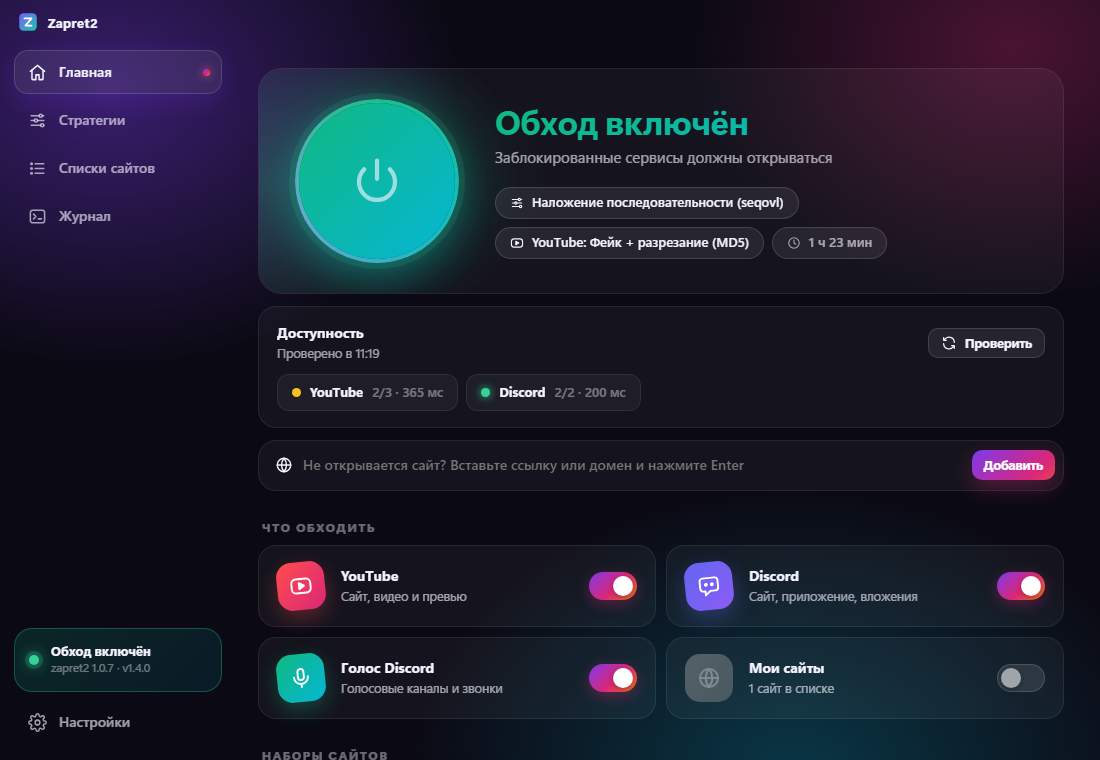
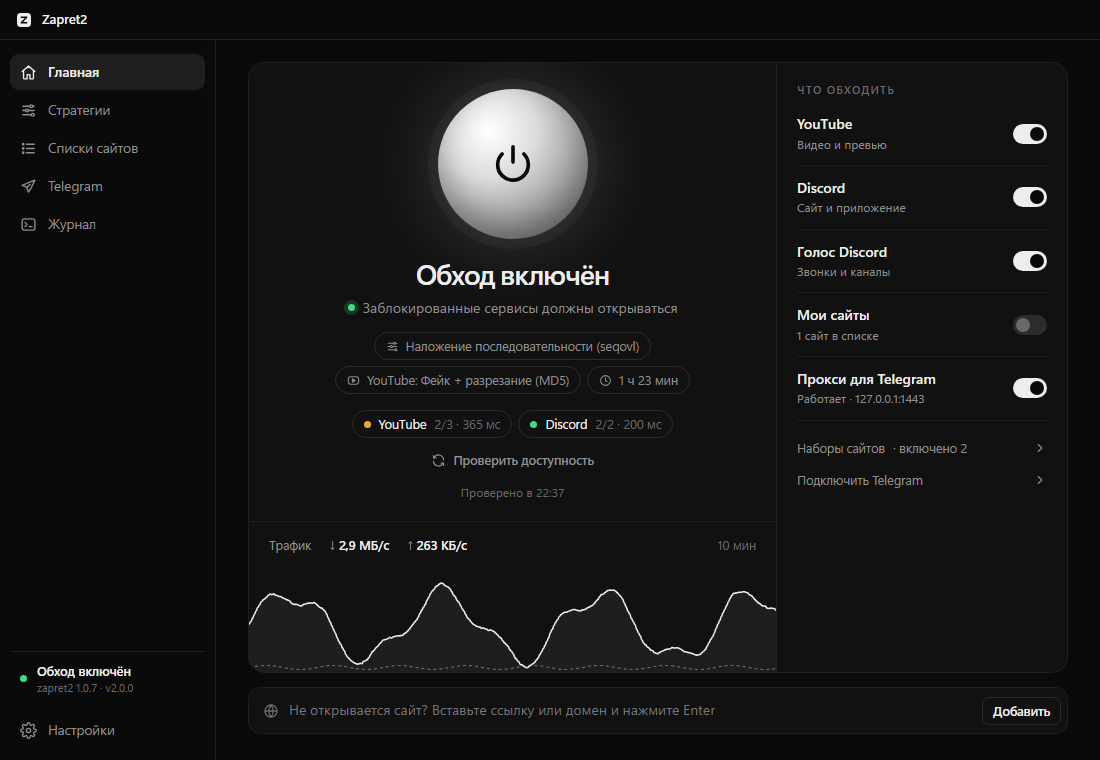
Подготовка к продвижению: README 2.0, скриншоты, шаблон «Стратегия для провайдера»
- README: возможности 1.5–2.0 (мастер, прокси для Telegram, хостинги и CDN,
  подсказка по провайдеру, график трафика), новые скриншоты, установка через
  мастер, частые вопросы про Telegram, бесконечную загрузку и отличия от GoodbyeDPI.
- README.en.md: описание на английском.
- Скриншоты дизайна 2.0 (главная в двух темах, мастер, подбор, Telegram, наборы, трей).
- Шаблон issue isp-strategy.yml; кнопка «Поделиться результатом» теперь открывает
  его с заполненными полями (обычные issue без шаблона в репозитории отключены).
- Демо-режим: версия 2.0.0, набор хостингов, без выдуманной подсказки провайдера;
  убрана цветная иконка YouTube на странице стратегий.

diff --git a/gui/ui/common.js b/gui/ui/common.js
@@ -194,7 +194,7 @@ function mockInvoke(cmd, args) {
   switch (cmd) {
     case "get_state": return Promise.resolve({
       status: { running: m.running, since: m.since, last_error: null, command_line: "", pid: null },
-      settings: m.settings, engine_version: "1.0.7", app_version: "1.4.0", conflicts: [], testing: false,
+      settings: m.settings, engine_version: "1.0.7", app_version: "2.0.0", conflicts: [], testing: false,
       data_dir: "C:\\Users\\user\\AppData\\Local\\Zapret2GUI", user_domains: 1, auto_domains: 0, autostart: m.settings.autostart,
       content_version: 2,
       app_update: new URLSearchParams(location.search).get("upd") ? { configured: true, available: true, current: "1.1.0", latest: "1.2.0", notes: "Меньше нагрузка на видеокарту" } : null,
@@ -212,7 +212,7 @@ function mockInvoke(cmd, args) {
       t.tx += (0.2 + 0.1 * Math.sin(t.n / 5)) * 1048576 * 2;
       return Promise.resolve({ rx: Math.round(t.rx), tx: Math.round(t.tx) });
     }
-    case "get_isp": return wait(300).then(() => ({ isp: { asn: 12389, name: "PJSC Rostelecom" }, hint: { asn: [12389], name: "Ростелеком", strategy: "seqovl", youtube_strategy: "" } }));
+    case "get_isp": return wait(300).then(() => ({ isp: { asn: 12389, name: "PJSC Rostelecom" }, hint: null }));
     case "save_settings": m.settings = args.new; return Promise.resolve(m.settings);
     case "get_command_line": return Promise.resolve("engine\\bin\\winws2.exe --wf-tcp-out=80,443 ...");
     case "read_list": return Promise.resolve(m.lists[args.name] || "");
@@ -247,6 +247,7 @@ function mockInvoke(cmd, args) {
       { id: "torrents", name: "Торрент-трекеры", icon: "download", description: "RuTracker, Rutor, NNM-Club, Kinozal и другие", domains: 11 },
       { id: "roblox", name: "Roblox", icon: "gamepad", description: "Сайт и игровые серверы Roblox", domains: 5 },
       { id: "signal", name: "Signal", icon: "chat", description: "Мессенджер Signal", domains: 7 },
+      { id: "hosting", name: "Зарубежные хостинги и CDN", icon: "server", kind: "ipset", description: "Сайты, игры и сервисы на Cloudflare, Hetzner, DigitalOcean, OVH, AWS и других хостингах", domains: 16346 },
       { id: "linkedin", name: "LinkedIn", icon: "briefcase", description: "Сайт и картинки LinkedIn", domains: 3 },
     ]);
     case "quick_check": return wait(900).then(() => ({ id: "now", checks: [

diff --git a/gui/ui/app.js b/gui/ui/app.js
@@ -285,7 +285,7 @@ function renderPacks() {
       <div class="pack-top"><span class="pack-ico">${icon(p.icon || "globe")}</span><span class="pack-check">${icon("tick")}</span></div>
       <div class="pack-name">${esc(p.name)}</div>
       <div class="pack-desc">${esc(p.description)}</div>
-      <div class="pack-count">${p.kind === "ipset" ? `${p.domains} ${plural(p.domains, "подсеть", "подсети", "подсетей")}` : `${p.domains} ${plural(p.domains, "домен", "домена", "доменов")}`}</div>
+      <div class="pack-count">${p.kind === "ipset" ? `${p.domains.toLocaleString("ru-RU")} ${plural(p.domains, "подсеть", "подсети", "подсетей")}` : `${p.domains} ${plural(p.domains, "домен", "домена", "доменов")}`}</div>
     </button>`).join("");
   $$(".pack", box).forEach((b) => b.addEventListener("click", () => {
     const set = new Set(state.settings.packs || []);
@@ -983,7 +983,7 @@ onVisible(() => { if (!busy) refresh(); });
     render();
     if (demo.get("page")) goto(demo.get("page"));
     if (demo.get("wizard")) openWizard();
-    for (let i = 0; i < 180; i++) {
+    for (let i = 0; i < 300; i++) {
       trafRx.push((2.4 + 1.8 * Math.sin(i / 14) + 0.6 * Math.sin(i / 5.3) + Math.random() * 0.3) * 1048576);
       trafTx.push((0.25 + 0.12 * Math.sin(i / 6)) * 1048576);
     }

diff --git a/gui/ui/index.html b/gui/ui/index.html
@@ -172,7 +172,7 @@
           </div>
 
           <div class="setting" style="margin-bottom:16px">
-            <span data-icon="play" style="color:#ff4e45"></span>
+            <span data-icon="play"></span>
             <div class="setting-text"><div class="setting-title">Стратегия для YouTube</div><div class="setting-desc">Серверам Google часто нужна другая стратегия, чем Discord и остальным сайтам</div></div>
             <div class="select-wrap" style="width:300px"><select id="ytStrategy"></select><span class="select-chev" data-icon="chevron"></span></div>
           </div>

diff --git a/gui/src-tauri/src/isp.rs b/gui/src-tauri/src/isp.rs
@@ -83,19 +83,22 @@ pub async fn detect() -> Result<Isp, String> {
 }
 
 /// Ссылка на новый issue с результатом подбора: из них пополняется таблица рекомендаций.
+/// Открывает шаблон .github/ISSUE_TEMPLATE/isp-strategy.yml и заполняет его поля
+/// (обычные issue без шаблона в репозитории отключены).
 pub fn share_url(isp: &Isp, strategy: &str, youtube_strategy: &str, app_version: &str) -> String {
     let title = format!("Стратегия для AS{} {}", isp.asn, isp.name);
-    let body = format!(
-        "Провайдер: {} (AS{})\nОсновная стратегия: {strategy}\nСтратегия для YouTube: {}\nВерсия приложения: {app_version}\n\nГород и тип подключения (по желанию):\n",
-        isp.name,
-        isp.asn,
-        if youtube_strategy.is_empty() { "как основная" } else { youtube_strategy }
-    );
-    format!(
-        "https://github.com/raiyaxkrash/zapret2-rust/issues/new?labels=isp-strategy&title={}&body={}",
-        encode(&title),
-        encode(&body)
-    )
+    let yt = if youtube_strategy.is_empty() { "как основная" } else { youtube_strategy };
+    let fields = [
+        ("template", "isp-strategy.yml".to_string()),
+        ("title", title),
+        ("provider", isp.name.clone()),
+        ("asn", format!("AS{}", isp.asn)),
+        ("strategy", strategy.to_string()),
+        ("youtube_strategy", yt.to_string()),
+        ("version", app_version.to_string()),
+    ];
+    let query: Vec<String> = fields.iter().map(|(k, v)| format!("{k}={}", encode(v))).collect();
+    format!("https://github.com/raiyaxkrash/zapret2-rust/issues/new?{}", query.join("&"))
 }
 
 fn encode(s: &str) -> String {
@@ -128,6 +131,6 @@ mod tests {
         assert!(find_hint(&hints, 1).is_none());
         let url = share_url(&Isp { asn: 12389, name: "PJSC Rostelecom".into() }, "seqovl", "", "1.6.0");
         assert!(url.starts_with("https://github.com/raiyaxkrash/zapret2-rust/issues/new?"));
-        assert!(url.contains("AS12389") && !url.contains(' '));
+        assert!(url.contains("template=isp-strategy.yml") && url.contains("asn=AS12389") && !url.contains(' '));
     }
 }

diff --git a/README.md b/README.md
@@ -2,14 +2,16 @@
 
 # Zapret2 GUI
 
-**Обход блокировок YouTube, Discord и других сайтов на Windows в один клик**
+**YouTube, Discord, Telegram и другие сайты на Windows — в один клик**
 
-Удобное приложение для [zapret2](https://github.com/bol-van/zapret2): включение одной кнопкой, автоподбор стратегии, готовые наборы сайтов, мини-окно в трее и автообновление.
+Простое приложение для [zapret2](https://github.com/bol-van/zapret2): одна кнопка, мастер настройки, автоподбор стратегии, встроенный прокси для Telegram Desktop, готовые наборы сайтов и автообновление.
 
-[![Последний релиз](https://img.shields.io/github/v/release/raiyaxkrash/zapret2-rust?label=%D0%B2%D0%B5%D1%80%D1%81%D0%B8%D1%8F&color=db2777)](https://github.com/raiyaxkrash/zapret2-rust/releases/latest)
+[English](README.en.md)
+
+[![Последний релиз](https://img.shields.io/github/v/release/raiyaxkrash/zapret2-rust?label=%D0%B2%D0%B5%D1%80%D1%81%D0%B8%D1%8F&color=0a0a0a)](https://github.com/raiyaxkrash/zapret2-rust/releases/latest)
 [![Сборка](https://img.shields.io/github/actions/workflow/status/raiyaxkrash/zapret2-rust/release.yml?label=%D1%81%D0%B1%D0%BE%D1%80%D0%BA%D0%B0)](https://github.com/raiyaxkrash/zapret2-rust/actions)
-![Windows 10/11](https://img.shields.io/badge/Windows-10%20%7C%2011%20%7C%20ARM64-7c3aed)
-![Rust + Tauri 2](https://img.shields.io/badge/Rust-Tauri%202-f97316)
+![Windows 10/11](https://img.shields.io/badge/Windows-10%20%7C%2011%20%7C%20ARM64-555555)
+![Rust + Tauri 2](https://img.shields.io/badge/Rust-Tauri%202-555555)
 
 ### [⬇ Скачать последнюю версию](https://github.com/raiyaxkrash/zapret2-rust/releases/latest)
 
@@ -21,26 +23,37 @@
 
 ## Возможности
 
-- **Одна кнопка.** Включить и выключить обход можно в главном окне или в мини-окне в трее.
+- **Одна кнопка.** Нажмите на сферу на главной или включите обход из мини-окна в трее.
+- **Мастер первого запуска.** Отметьте, что не открывается, и приложение само подберёт настройки примерно за минуту.
 - **Готовые профили:** YouTube (включая QUIC), Discord, голосовые каналы Discord и «Мои сайты» со своим списком доменов.
+- **Прокси для Telegram Desktop.** Встроенный локальный прокси: приложение Telegram подключается через WebSocket к серверам Telegram, настраивать обход не нужно. Подключение одной кнопкой.
 - **Наборы сайтов одной кнопкой:** Telegram, Instagram и Facebook, X (Twitter), торрент-трекеры, Roblox, Signal, LinkedIn.
+- **Зарубежные хостинги и CDN.** Для сайтов и игр на Cloudflare, Hetzner, DigitalOcean, OVH, AWS и других хостингах, которые обрываются или грузятся бесконечно.
 - **Автоподбор стратегии.** Приложение пробует каждую стратегию и проверяет, открываются ли сайты. Для YouTube стратегия подбирается отдельно.
+- **Подсказка для вашего провайдера.** Приложение определяет провайдера и, если для него известна рабочая стратегия, предлагает её. Результатом подбора можно поделиться, чтобы подсказка появилась у других.
 - **Проверка любого сайта:** вставьте ссылку, и приложение покажет, открывается ли сайт без обхода и с какими стратегиями.
-- **Видно, что работает:** на главной показано «YouTube ✓ 320 мс · Discord ✓ 180 мс», значок в трее цветной, когда обход включён.
-- **Свой сайт за секунду:** вставьте ссылку на заблокированный сайт, и он попадёт в обход.
-- **Надёжно:** если winws2 упадёт, приложение перезапустит его само, а при выходе из приложения он не остаётся висеть.
+- **Видно, что работает:** доступность сервисов («YouTube 320 мс, Discord 180 мс») и график трафика за 10 минут прямо на главной.
+- **Надёжно:** если winws2 упадёт, приложение перезапустит его само, а при выходе он не остаётся висеть.
 - **Автообновление** приложения, стратегий, списков сайтов и самого zapret2.
 - **Автозапуск с Windows** без запроса прав администратора при каждом входе.
-- **Тёмная и светлая тема**, интерфейс почти не нагружает видеокарту.
+- **Строгий чёрно-белый дизайн**, тёмная и светлая тема, интерфейс почти не нагружает компьютер.
 - **Windows 11 на ARM64** (Snapdragon): приложение само ставит нужный драйвер.
 
 <table>
   <tr>
+    <td><img src="gui/screenshots/wizard.png" alt="Мастер первого запуска"></td>
     <td><img src="gui/screenshots/strategies.png" alt="Подбор стратегии"></td>
+  </tr>
+  <tr>
+    <td align="center">Мастер первого запуска</td>
+    <td align="center">Автоподбор: YouTube и остальные сервисы отдельно</td>
+  </tr>
+  <tr>
+    <td><img src="gui/screenshots/telegram.png" alt="Прокси для Telegram"></td>
     <td><img src="gui/screenshots/packs.png" alt="Наборы сайтов"></td>
   </tr>
   <tr>
-    <td align="center">Автоподбор: YouTube и остальные сервисы отдельно</td>
+    <td align="center">Прокси для Telegram Desktop</td>
     <td align="center">Наборы сайтов одной кнопкой</td>
   </tr>
   <tr>
@@ -57,17 +70,19 @@
 
 1. Скачайте `Zapret2.GUI_X.Y.Z_x64-setup.exe` со [страницы релизов](https://github.com/raiyaxkrash/zapret2-rust/releases/latest).
 2. Запустите установщик и разрешите запуск от имени администратора: без этого не загрузится драйвер WinDivert.
-3. Нажмите большую кнопку на главном экране, а при первом запуске — «Подобрать», чтобы найти стратегию под вашего провайдера.
+3. При первом запуске откроется мастер: отметьте, что у вас не открывается, и нажмите «Настроить». Дальше обход включается и выключается нажатием на сферу на главной.
 
 > [!NOTE]
 > Антивирусы иногда ошибочно считают драйвер WinDivert опасным. Это драйвер перехвата сетевых пакетов, а не вирус. Если обход не включается, проверьте карантин антивируса.
+>
+> Установщик собирается автоматически на GitHub Actions из открытого исходного кода этого репозитория: журнал каждой сборки можно посмотреть на вкладке [Actions](https://github.com/raiyaxkrash/zapret2-rust/actions).
 
 ## Вопросы и ответы
 
 <details>
 <summary><b>YouTube не работает, а Discord работает</b></summary>
 
-Серверам Google часто нужна другая стратегия. Откройте «Стратегии» → «Подобрать автоматически» → «Применить»: подбор выставит отдельную стратегию для YouTube. Если не помогло, выключите **QUIC / HTTP3** на главной и повторите подбор.
+Серверам Google часто нужна другая стратегия. Откройте «Стратегии» → «Подобрать автоматически» → «Применить»: подбор выставит отдельную стратегию для YouTube. Если не помогло, выключите **QUIC / HTTP3** на странице «Стратегии» и повторите подбор.
 </details>
 
 <details>
@@ -77,9 +92,21 @@ zapret2 перехватывает сетевые пакеты через дра
 </details>
 
 <details>
-<summary><b>Приложение Telegram не подключается, хотя набор Telegram включён</b></summary>
+<summary><b>Как подключить приложение Telegram?</b></summary>
 
-Набор открывает сайт, веб-версию и ссылки t.me. Само приложение Telegram использует собственный протокол и подключается к IP-адресам напрямую, поэтому обход по доменам ему не помогает. Включите в Telegram встроенный прокси.
+Включите «Прокси для Telegram» на главной, откройте раздел «Telegram» и нажмите «Подключить в Telegram»: Telegram Desktop сам предложит добавить прокси, это нужно сделать один раз. Прокси работает отдельно от обхода, его можно включить, даже если обход выключен. Набор сайтов «Telegram» нужен только для сайта, веб-версии и ссылок t.me.
+</details>
+
+<details>
+<summary><b>Некоторые сайты или игры грузятся бесконечно</b></summary>
+
+Часто это сайты на зарубежных хостингах (Cloudflare, Hetzner, AWS и другие): соединение с ними обрывается после первых килобайт. Включите набор «Зарубежные хостинги и CDN» на странице «Списки сайтов». Если сайт всё равно не открывается, проверьте его через «Стратегии» → «Проверить сайт».
+</details>
+
+<details>
+<summary><b>Чем это отличается от GoodbyeDPI и сборок zapret?</b></summary>
+
+Внутри работает тот же zapret2 от bol-van, но настраивать ничего вручную не нужно: стратегия подбирается автоматически, списки и стратегии обновляются сами, есть встроенный прокси для Telegram. Одновременно с другими программами обхода приложение работать не может, они используют тот же драйвер.
 </details>
 
 <details>

diff --git a/README.en.md b/README.en.md
@@ -1,0 +1,54 @@
+<div align="center">
+
+# Zapret2 GUI
+
+**YouTube, Discord, Telegram and other blocked sites on Windows — in one click**
+
+A simple desktop app for [zapret2](https://github.com/bol-van/zapret2) (DPI circumvention by bol-van): one button, setup wizard, automatic strategy search, a built-in proxy for Telegram Desktop, ready-made site packs and auto-updates.
+
+[Русский](README.md)
+
+[![Latest release](https://img.shields.io/github/v/release/raiyaxkrash/zapret2-rust?color=0a0a0a)](https://github.com/raiyaxkrash/zapret2-rust/releases/latest)
+![Windows 10/11](https://img.shields.io/badge/Windows-10%20%7C%2011%20%7C%20ARM64-555555)
+![Rust + Tauri 2](https://img.shields.io/badge/Rust-Tauri%202-555555)
+
+### [⬇ Download the latest version](https://github.com/raiyaxkrash/zapret2-rust/releases/latest)
+
+<img src="gui/screenshots/main-dark.png" alt="Zapret2 GUI main screen" width="820">
+
+</div>
+
+> [!NOTE]
+> The interface is currently in Russian only. The app is fully usable without reading much: the big sphere turns circumvention on and off, and the setup wizard does the rest.
+
+## Features
+
+- **One button.** Click the sphere on the main screen or use the tray mini-window.
+- **Setup wizard.** Pick what doesn't open (YouTube, Discord, Telegram, Instagram, other sites and games) and the app configures itself in about a minute.
+- **Automatic strategy search.** Every strategy is tried in turn and checked against real sites (at least 64 KB is downloaded to catch the "16 KB freeze"). YouTube gets its own strategy.
+- **Telegram Desktop proxy.** A built-in local MTProto proxy (Rust re-implementation of the [tg-ws-proxy](https://github.com/Flowseal/tg-ws-proxy) protocol) that routes Telegram over WebSocket/TLS. Connect with one click.
+- **Site packs:** Telegram, Instagram & Facebook, X (Twitter), torrent trackers, Roblox, Signal, LinkedIn.
+- **Foreign hosting & CDN pack.** ~16,000 subnets of Cloudflare, Hetzner, DigitalOcean, OVH, AWS, Google Cloud, Oracle and others for sites and games that hang or break mid-download.
+- **ISP hint.** The app detects your ISP and suggests a strategy known to work there; you can share your result to help others.
+- **Check any site:** paste a link to see whether it opens without circumvention and with which strategies.
+- **Live status:** service availability and a 10-minute traffic chart on the main screen.
+- **Reliable:** winws2 is restarted if it crashes and never left running after exit.
+- **Auto-updates** for the app, strategies, site lists and zapret2 itself.
+- **Starts with Windows** without a UAC prompt on every login.
+- **Strict black-and-white design**, dark and light themes.
+- **Windows 11 on ARM64** supported.
+
+## Installation
+
+1. Download `Zapret2.GUI_X.Y.Z_x64-setup.exe` from the [releases page](https://github.com/raiyaxkrash/zapret2-rust/releases/latest).
+2. Run the installer and allow administrator rights (required to load the WinDivert driver).
+3. The setup wizard opens on first launch: tick what doesn't work and press «Настроить» (Set up).
+
+Antivirus software sometimes flags the WinDivert driver: it is a packet interception driver, not malware. Installers are built by GitHub Actions from the open source code in this repository — see the [Actions](https://github.com/raiyaxkrash/zapret2-rust/actions) tab for every build log.
+
+## Credits and license
+
+- [zapret2](https://github.com/bol-van/zapret2) by **bol-van** — the circumvention engine (MIT).
+- [tg-ws-proxy](https://github.com/Flowseal/tg-ws-proxy) by **Flowseal** — the protocol the Telegram proxy is based on (MIT).
+- [WinDivert](https://reqrypt.org/windivert.html) — packet interception driver.
+- [Tauri](https://tauri.app) — application framework.
